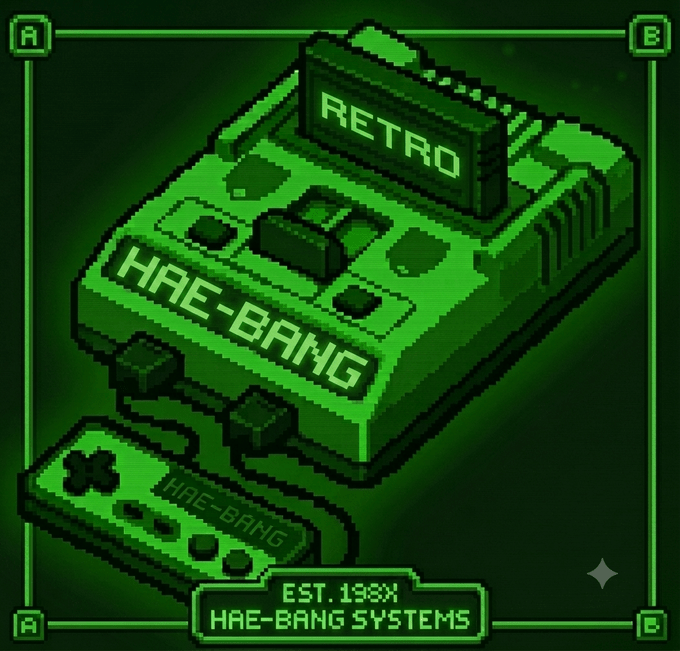
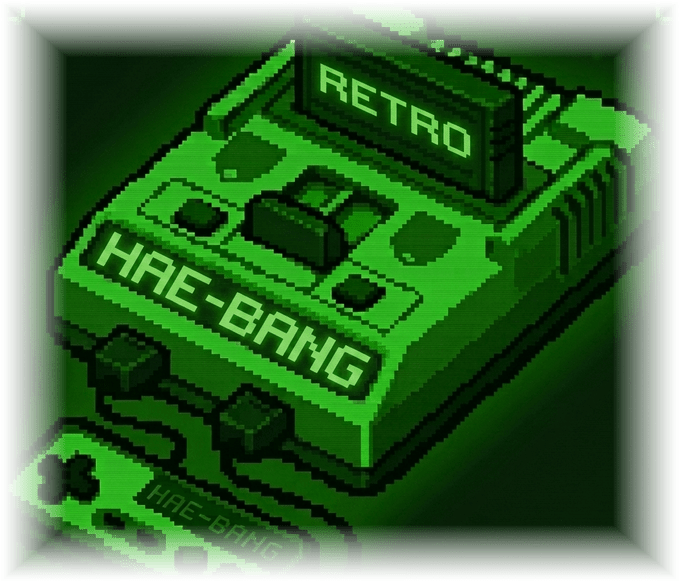
히어로 아이콘을 실물만 남긴 투명 PNG 로 교체
테두리 프레임(A/B 코너·사방 선), 하단 배너(EST.198X), 장식 별을 없애고
가장자리 알파를 페이드해 사각 경계를 지웠다 — 배경에 게임기만 떠 보인다.
샤인 띠도 알파 마스크를 씌워 실물 모양대로만 지나간다.

⚠ 색으로 배경을 깎는 방식은 이 아트워크에서 못 쓴다: 초록 모노크롬이라
   배경과 오브젝트의 검정 아웃라인·측면 음영이 같은 색이고 서로 이어져,
   임계·flood 어느 쪽도 오브젝트를 함께 뚫는다(두 차례 실측). 그래서
   '군더더기 크롭 + 가장자리 페이드' 로 같은 효과를 냈다.

diff --git a/docs/index.html b/docs/index.html
@@ -88,14 +88,18 @@
      아이콘은 정사각이라 마스크 없이 border-radius 로 잘라 같은 띠를 얹는다. */
   .hero-brandmark{display:flex; align-items:center; justify-content:center; gap:17px; margin-bottom:24px;
     animation:logoIn .85s cubic-bezier(.2,.85,.25,1) both}
-  /* 테두리·모서리 깎기 없이 — 아트워크 자체에 A/B 코너 프레임이 들어 있어
-     둥글리면 그 모서리가 잘린다. 은은한 초록 글로우만 남긴다. */
+  /* 아이콘은 실물(게임기)만 남기고 가장자리를 투명하게 페이드해 둔 PNG —
+     테두리 프레임·배너가 없고 사각 경계도 없어 배경에 그대로 얹힌다.
+     글로우가 이미 이미지에 들어 있어 CSS 그림자는 옅게만 준다.
+     샤인 띠도 알파를 마스크로 써서 실물 모양대로만 지나가게 한다. */
   .hbr-ico{position:relative; display:inline-block; flex:0 0 auto}
-  .hbr-ico img{display:block; width:136px; height:136px;
-    filter:drop-shadow(0 14px 34px rgba(34,197,94,.45)) drop-shadow(0 4px 14px rgba(74,222,128,.28))}
+  .hbr-ico img{display:block; width:136px; height:auto;
+    filter:drop-shadow(0 8px 22px rgba(34,197,94,.30))}
   .hbr-ico::after{content:""; position:absolute; inset:0; pointer-events:none;
-    background:linear-gradient(112deg, transparent 34%, rgba(226,255,238,.55) 48%, transparent 60%);
+    background:linear-gradient(112deg, transparent 34%, rgba(226,255,238,.5) 48%, transparent 60%);
     background-size:260% 100%; background-position:135% 0;
+    -webkit-mask:url(assets/hb_retro.png) no-repeat center/contain;
+    mask:url(assets/hb_retro.png) no-repeat center/contain;
     animation:hbrShine 5.5s ease-in-out 1.2s infinite}
   .hbr-word{font-size:clamp(32px,4.8vw,54px); font-weight:900; letter-spacing:.4px; line-height:1; white-space:nowrap;
     background:linear-gradient(110deg,#15803d 0%,#22c55e 20%,#4ade80 33%,#dcffe9 45%,#4ade80 57%,#22c55e 70%,#15803d 100%);
@@ -107,7 +111,7 @@
   @keyframes logoIn{from{opacity:0; transform:translateY(14px) scale(.97)} to{opacity:1; transform:none}}
   @media (max-width:560px){
     .hero-brandmark{gap:11px}
-    .hbr-ico img{width:92px; height:92px}
+    .hbr-ico img{width:92px}
     .hbr-word{font-size:clamp(24px,7.6vw,32px)}
   }
   h1.hero-title{font-size:clamp(36px,5.6vw,62px); line-height:1.08; letter-spacing:-.02em; font-weight:800; margin:0 auto 20px; max-width:820px}

diff --git a/docs/haebang.html b/docs/haebang.html
@@ -104,13 +104,16 @@
         같은 초록 계열 그라데이션으로 밝게 올렸다. */
   .hero-logo{display:flex; align-items:center; gap:18px; margin-bottom:24px;
     animation:logoIn .85s cubic-bezier(.2,.85,.25,1) both}
-  /* 테두리·모서리 깎기 없이 — 아트워크 코너가 잘리지 않게. 초록 글로우만 남긴다. */
+  /* 실물만 남기고 가장자리를 투명 페이드한 PNG — 사각 경계·프레임이 없다.
+     샤인 띠는 알파를 마스크로 써서 실물 모양대로만 지나간다. */
   .hbt-ico{position:relative; display:inline-block; flex:0 0 auto}
-  .hbt-ico img{display:block; width:min(116px,24vw); height:auto;
-    filter:drop-shadow(0 12px 30px rgba(34,197,94,.42)) drop-shadow(0 4px 12px rgba(74,222,128,.25))}
+  .hbt-ico img{display:block; width:min(124px,26vw); height:auto;
+    filter:drop-shadow(0 8px 20px rgba(34,197,94,.28))}
   .hbt-ico::after{content:""; position:absolute; inset:0; pointer-events:none;
     background:linear-gradient(112deg, transparent 34%, rgba(226,255,238,.5) 48%, transparent 60%);
     background-size:260% 100%; background-position:135% 0;
+    -webkit-mask:url(assets/hb_tool.png) no-repeat center/contain;
+    mask:url(assets/hb_tool.png) no-repeat center/contain;
     animation:shine 6s ease-in-out 1.4s infinite}
   .hbt-word{display:flex; flex-direction:column; gap:6px; min-width:0}
   .hbt-word b{font-size:clamp(28px,4.4vw,50px); font-weight:900; letter-spacing:-.5px; line-height:1;
